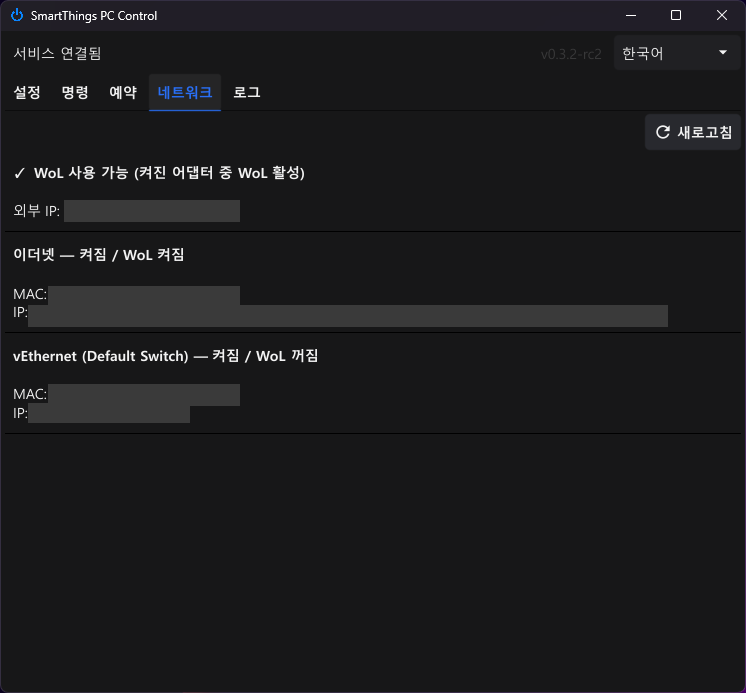
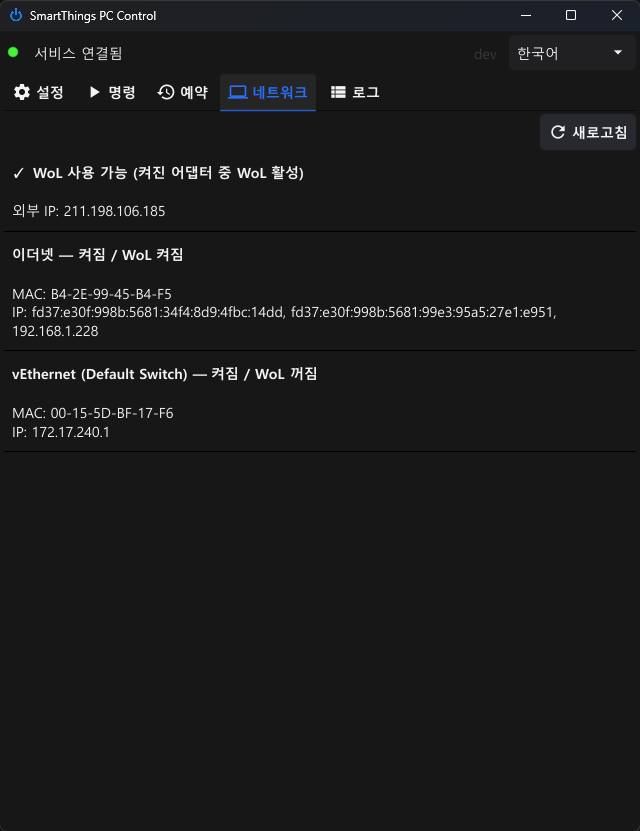
docs: CHANGELOG v0.3.4, README 유예 시간 선택·예약 프리셋·설정 탭 구성 반영, 스크린샷 갱신

diff --git a/CHANGELOG.md b/CHANGELOG.md
@@ -1,5 +1,22 @@
 # Changelog
 
+## [v0.3.4]
+
+### 새 기능
+- **원격 전원 명령 유예 시간 선택** — 설정 탭의 "원격 명령 유예" 선택 상자에서 사용 안 함 / 10초 / 30초 / 1분 / 5분 / 10분 / 30분 중 선택. config.json에 `grace_seconds`(초, 5~3600, 기본 300) 추가, `shutdown_grace`는 그대로 on/off. 키가 없는 기존 config.json이나 값을 보내지 않는 구 WebUI는 기존(기본) 값을 유지 (#51)
+
+### 개선 (데스크톱 앱)
+- 예약 탭: 분 직접 입력을 없애고 프리셋(5/15/30/60/120분) 선택만 제공. 남은 시간을 큰 글자로 표시하고 [예약 취소]는 예약이 있을 때만 활성화 (#52)
+- 탭 아이콘, 상단 상태 표시줄의 연결 상태 색 점(연결/끊김/연결 중), 명령 버튼 아이콘, 설정 탭을 서비스 설정 / 도구 / 앱 세 섹션으로 정리 (#53)
+- 창 기본 크기를 640×800으로 조정해 설정 탭이 한국어/영어 모두 스크롤 없이 표시됨 (#53)
+- 언어 전환 직후 "서비스 관리" 섹션이 아래 섹션 위에 겹쳐 보이던 문제와, 네트워크 탭의 긴 IPv6 주소 목록이 로드되면서 창 너비가 늘어나던 문제 수정 (#53)
+
+### 수정
+- 자동 업데이트 후 앱 재실행을 explorer.exe 경유에서 데스크톱 사용자 토큰(`CreateProcessWithTokenW`) 기반으로 변경 — 재실행된 앱이 로그인 자동 시작(HKCU Run) 항목을 정상 갱신. 실패 시 기존 explorer.exe → 직접 실행 순으로 폴백 (#50)
+
+### 변경
+- 서비스 로그의 예약/유예 시간 표기가 분 고정에서 `5 min` / `30 sec` 형식으로 변경
+
 ## [v0.3.3]
 
 ### 새 기능
